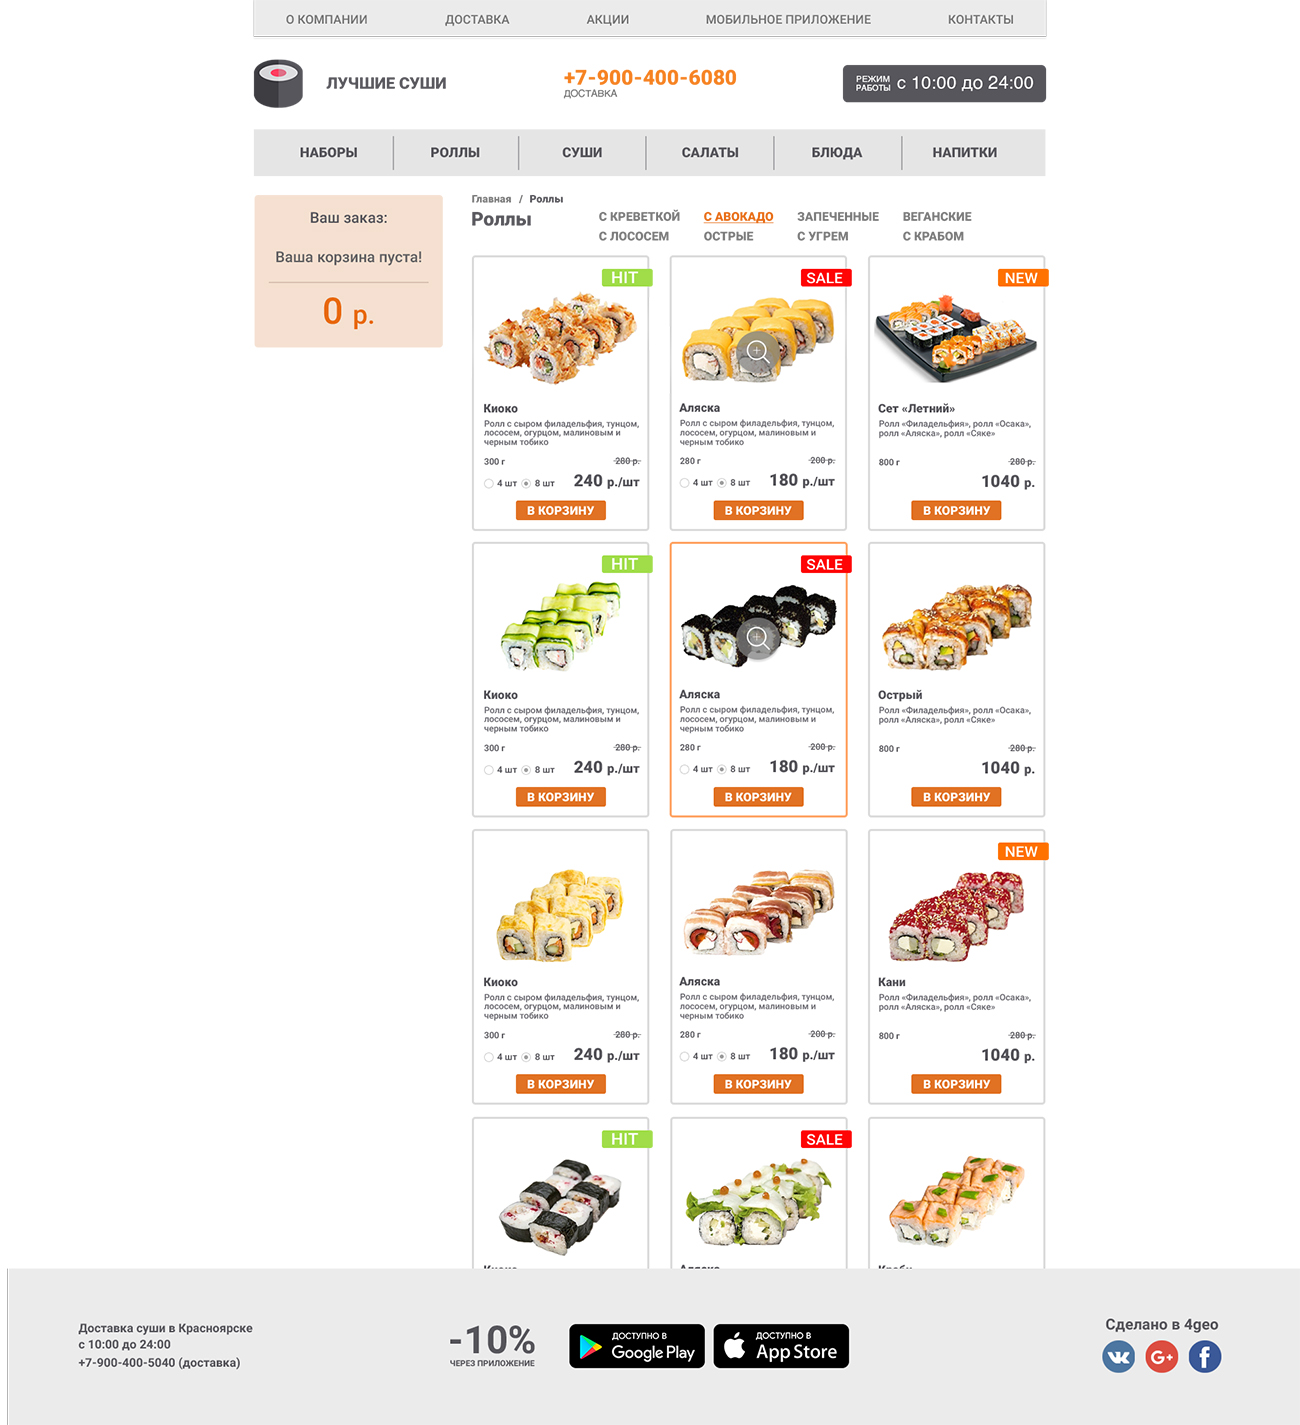
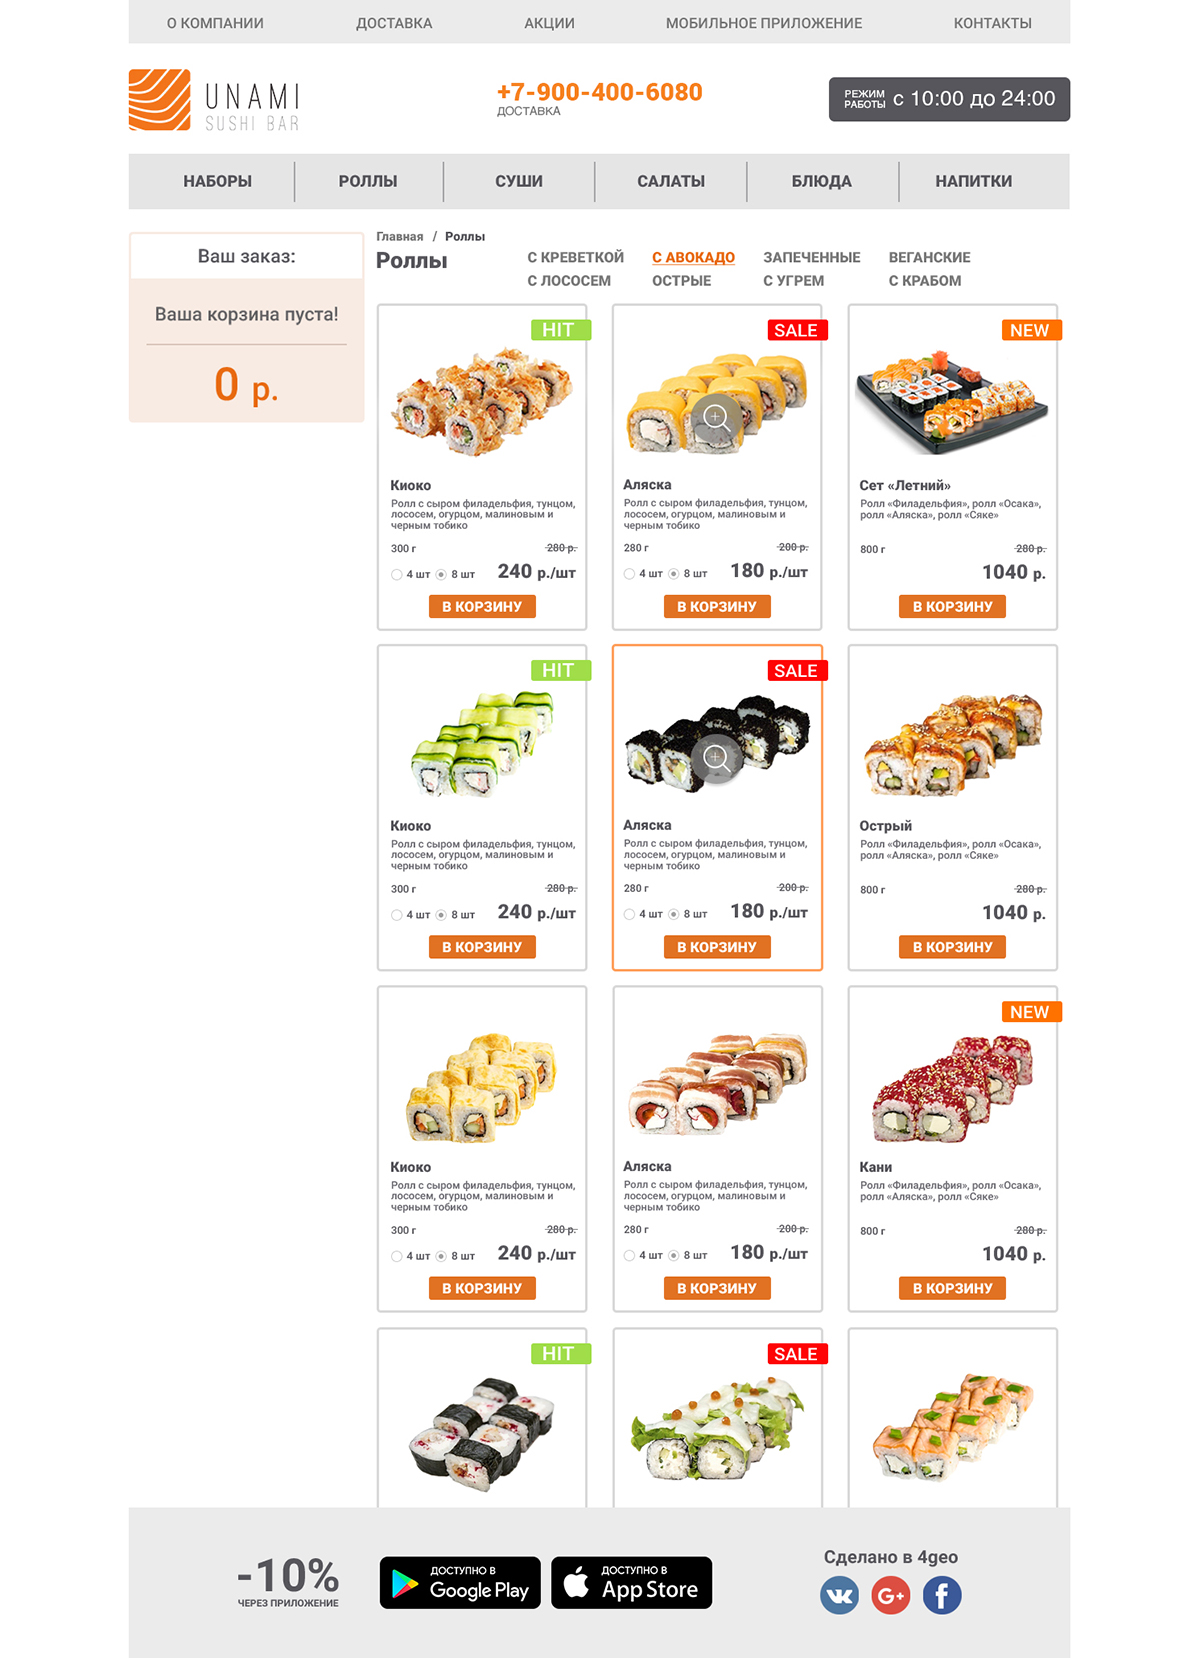
edit sushi-maket; edit battery saver

diff --git a/index.html b/index.html
@@ -239,11 +239,11 @@
 
     <a class="col-xs-12 col-md-6 col-lg-3 cases__item" href="projects/sushi.html" data-type="2">
         <div class="cases__item-image" style="background-color: #9b001d">
-            <img src="var/newsletter/0tstjjh9oc.jpg" title="" Лучшие суши"" alt=""Лучшие суши"">
+            <img src="var/newsletter/0tstjjh9oc.jpg" title="Sushi" alt="Sushi">
         </div>
         <div class="cases__item-title">
-            макет сайта
-            <div></div>
+            Sushi
+            <div>Редизайн сайта</div>
         </div>
     </a>
 

diff --git a/projects/battery_saver.html b/projects/battery_saver.html
@@ -121,7 +121,7 @@
 <div class="col-md-12 case-content">
     <p>
         <img alt="" src="../var/custom/test_MP.jpg" /></p>
-    <img alt="" src="../var/custom/play_m.jpg" /></p>
+    <img alt="" src="../var/custom/play_m1.jpg" /></p>
 </div>
 
 <div class="container">
